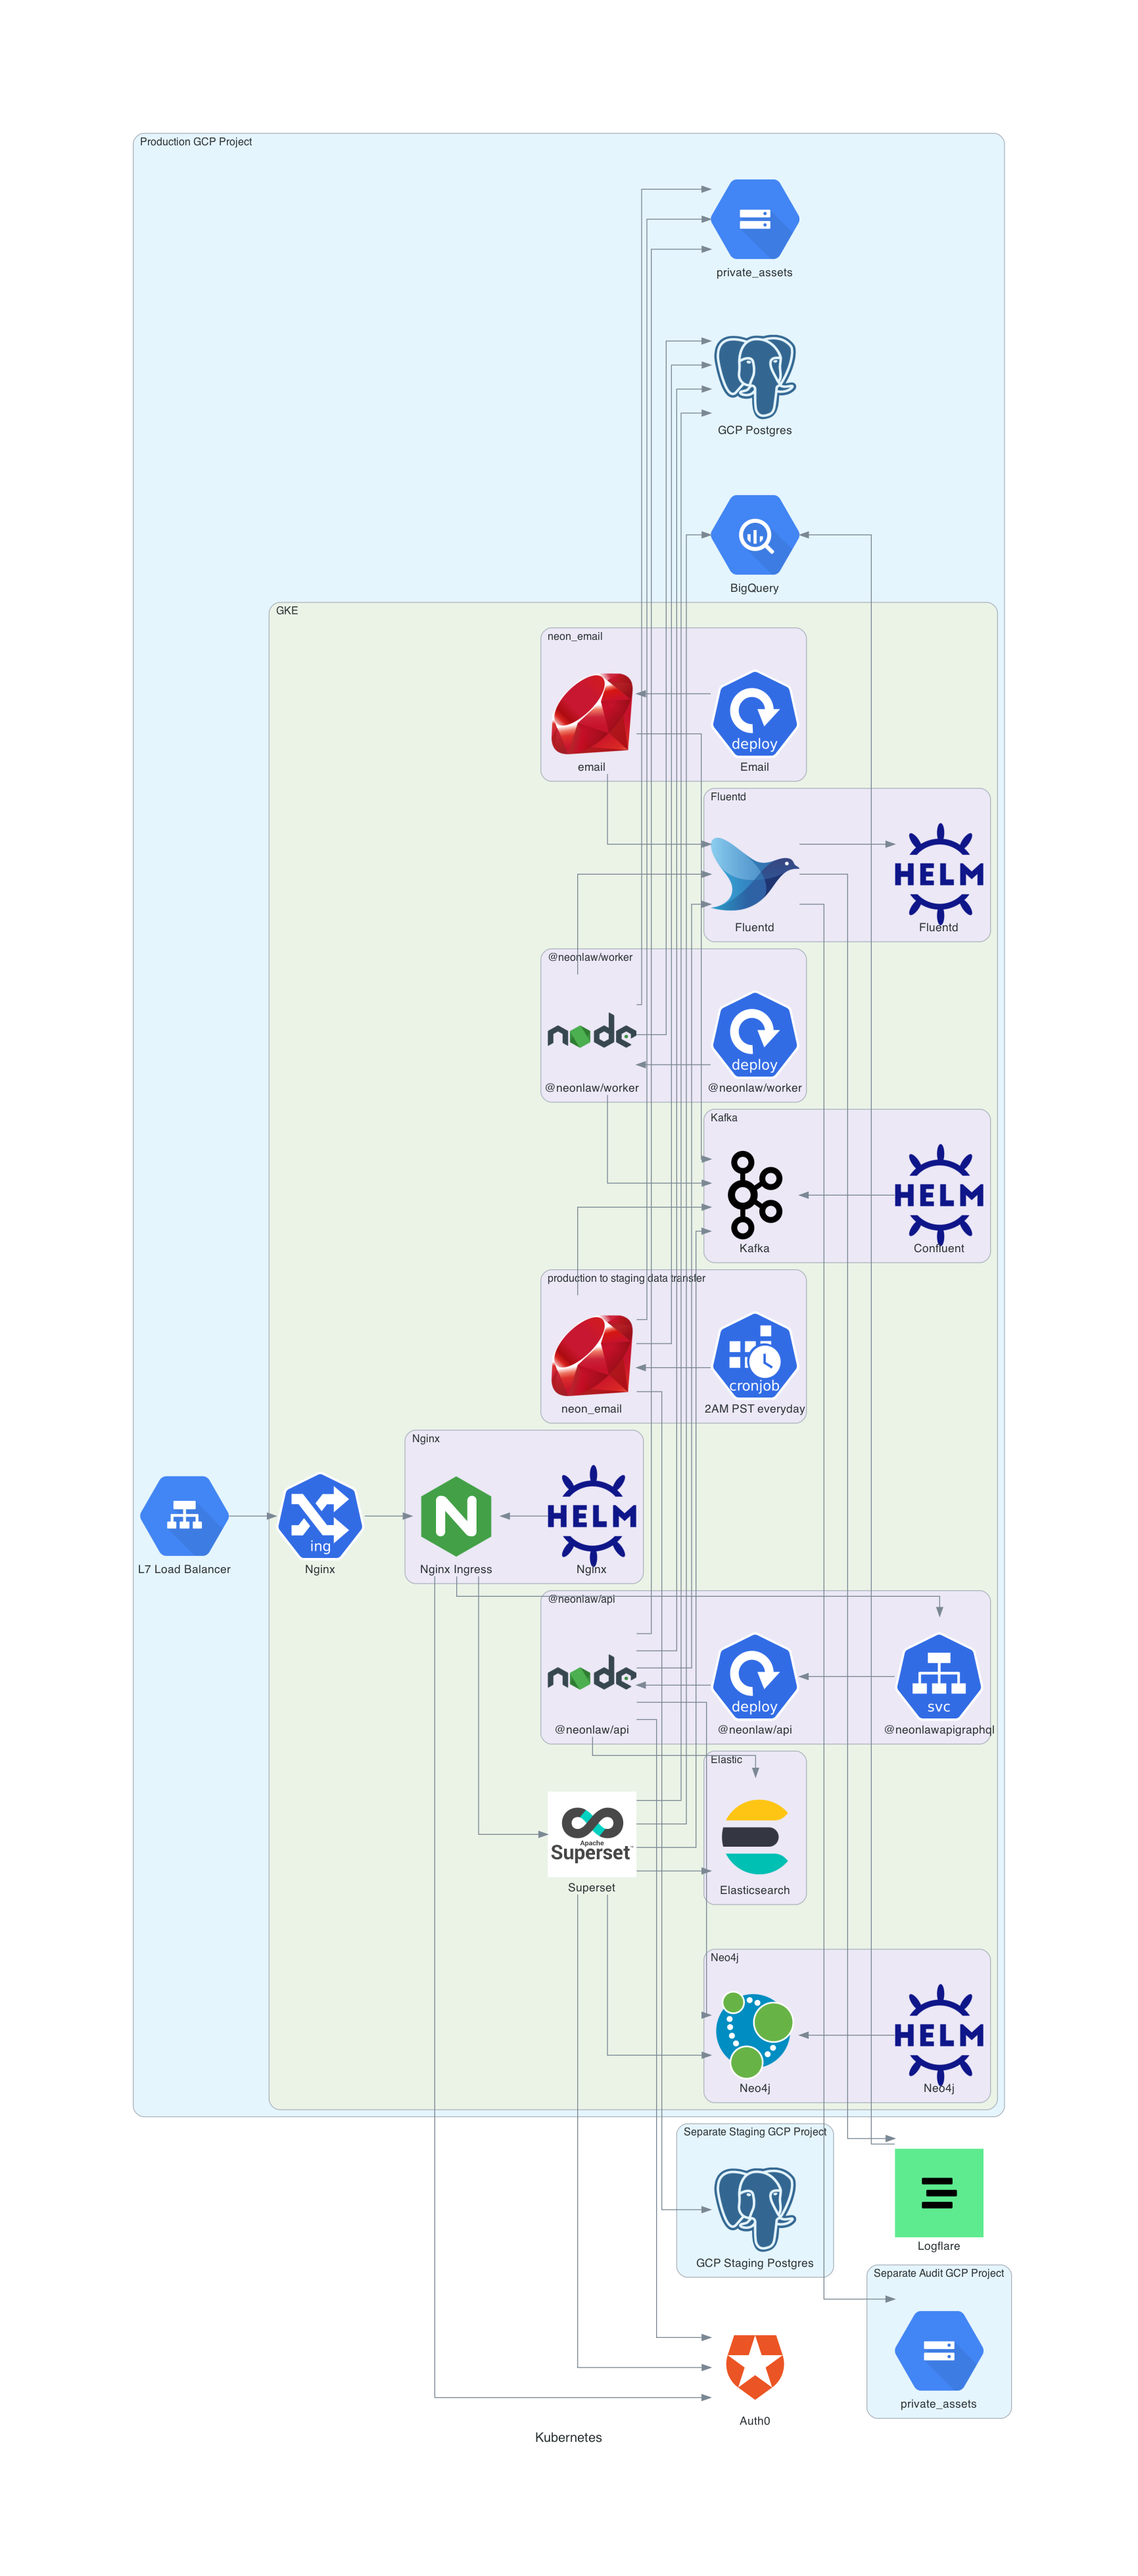
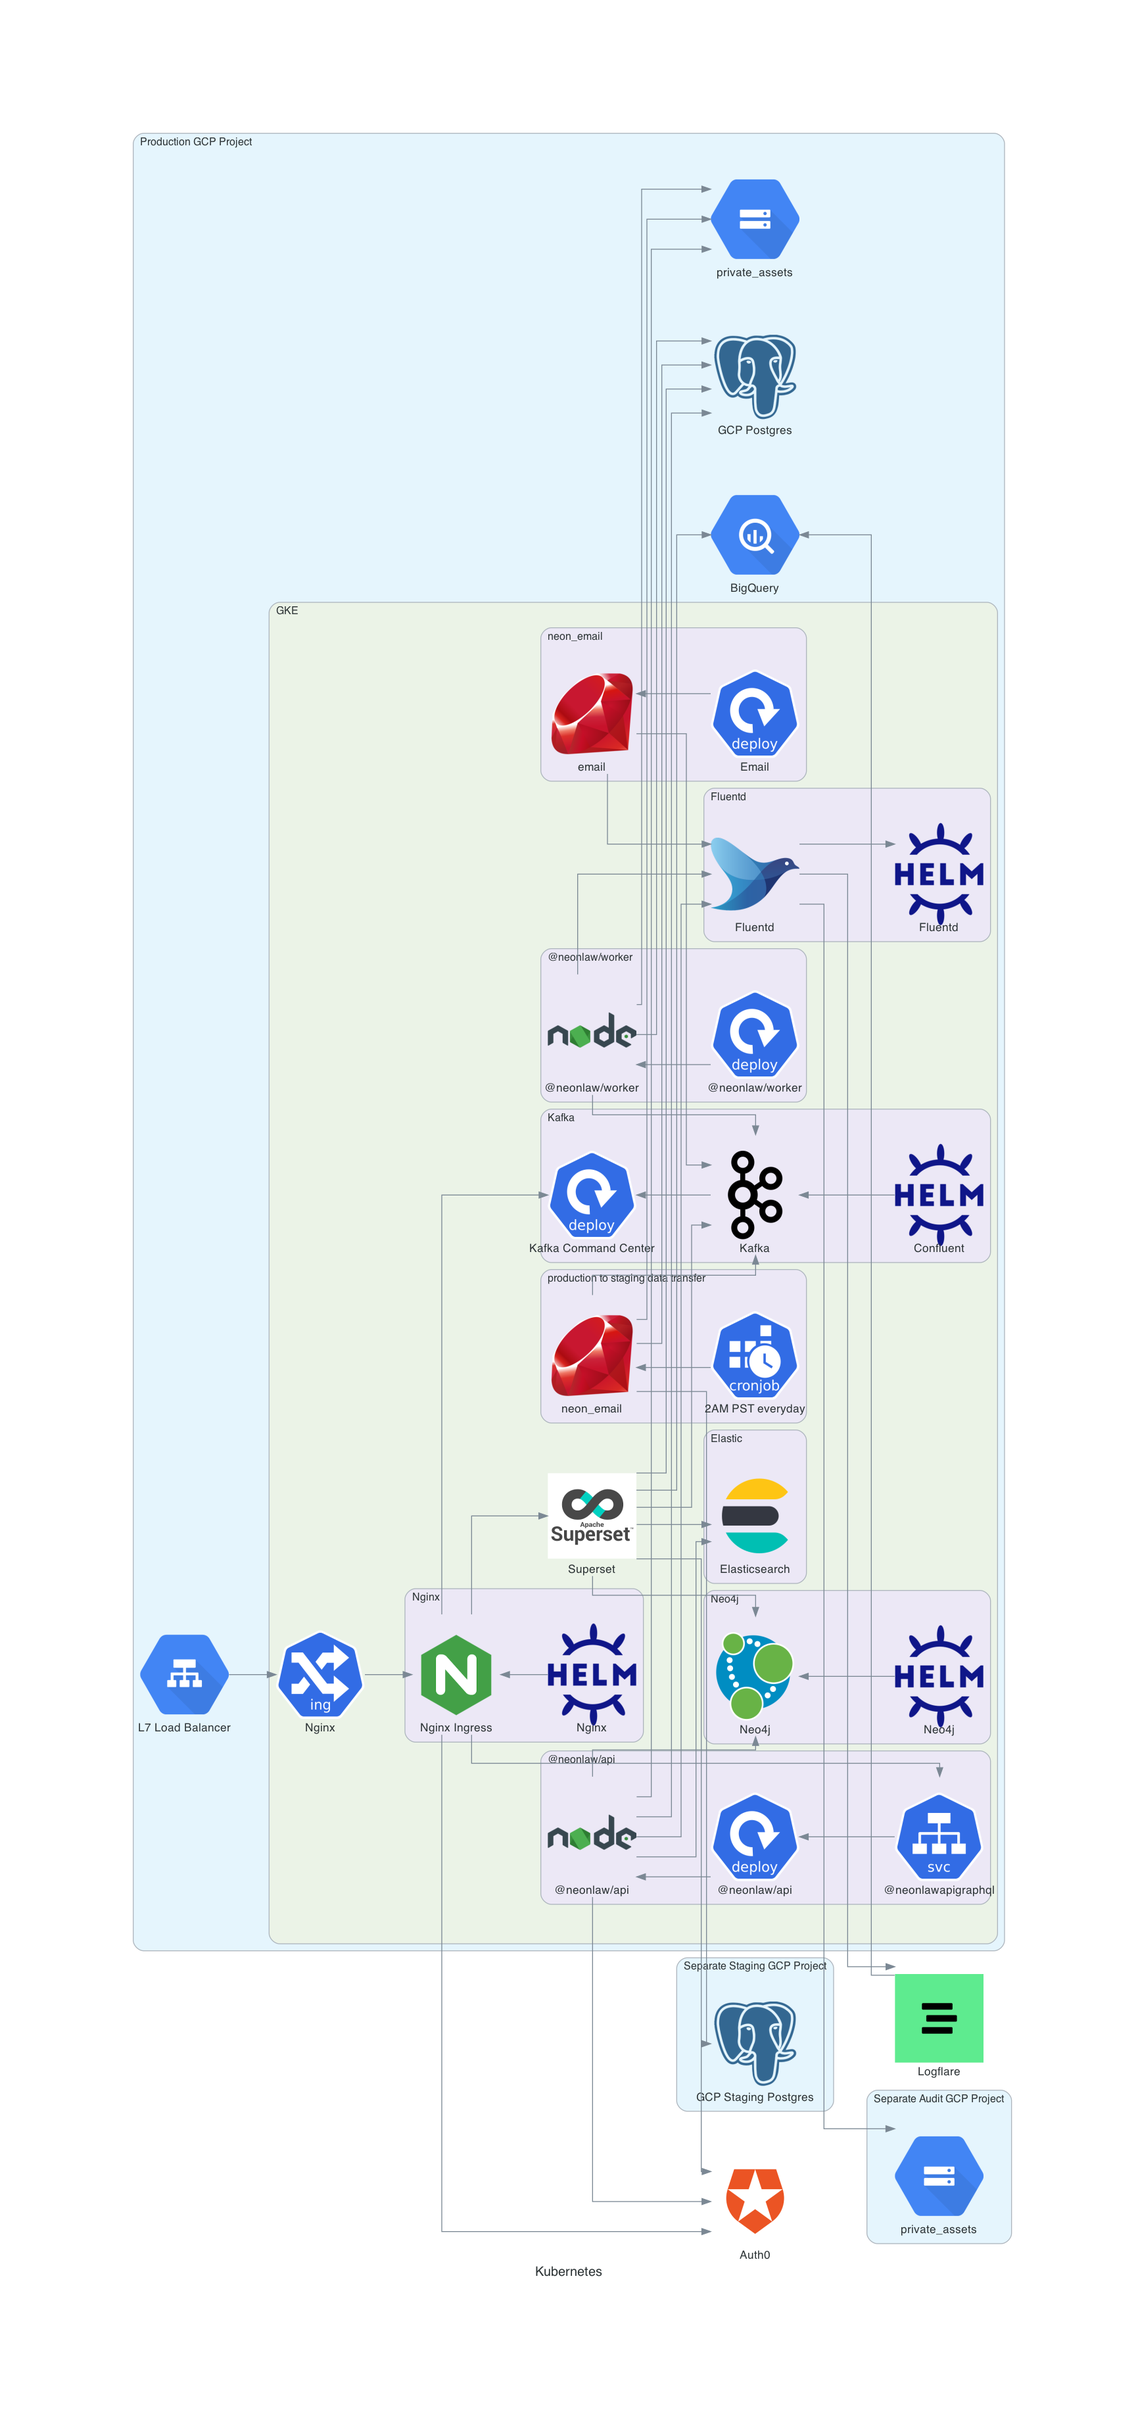
add ingress to align with diagram

diff --git a/web/src/pages/blog/index.tsx b/web/src/pages/blog/index.tsx
@@ -28,34 +28,6 @@ const BlogIndex = () => {
             <List spacing="0.5rem" maxWidth={sizes.textContainerMedium}>
               <ListItem className="list-item">
                 <PostBanner
-                  title="Web Architecture"
-                  date={new Date()}
-                  slug="/blog/web-architecture"
-                  excerpt="The web architecture of Neon Law"
-                >
-                  <img
-                    src="/images/web_diagram.png"
-                    alt="Web Architecture Blog Post"
-                  />
-                </PostBanner>
-              </ListItem>
-
-              <ListItem className="list-item">
-                <PostBanner
-                  title="GCP Architecture"
-                  date={new Date()}
-                  slug="/blog/gcp-architecture"
-                  excerpt="The GCP architecture of Neon Law"
-                >
-                  <img
-                    src="/images/gcp_diagram.png"
-                    alt="GCP Architecture Blog Post"
-                  />
-                </PostBanner>
-              </ListItem>
-
-              <ListItem className="list-item">
-                <PostBanner
                   title="Kubernetes Architecture"
                   date={new Date()}
                   slug="/blog/k8s-architecture"
@@ -64,20 +36,6 @@ const BlogIndex = () => {
                   <img
                     src="/images/k8s_diagram.png"
                     alt="Kubernetes Architecture Blog Post"
-                  />
-                </PostBanner>
-              </ListItem>
-
-              <ListItem className="list-item">
-                <PostBanner
-                  title="Kafka Architecture"
-                  date={new Date()}
-                  slug="/blog/kafka-architecture"
-                  excerpt="The kafka architecture of Neon Law"
-                >
-                  <img
-                    src="/images/kafka_diagram.png"
-                    alt="Kafka Architecture Blog Post"
                   />
                 </PostBanner>
               </ListItem>

diff --git a/diagrams/neon_diagrams/k8s_diagram.py b/diagrams/neon_diagrams/k8s_diagram.py
@@ -38,7 +38,8 @@ with Diagram("Kubernetes", filename=f"{web_images_path}/k8s_diagram"):
         with Cluster("GKE"):
             with Cluster("Kafka"):
                 kafka = Kafka("Kafka")
-                kafka << Helm("Confluent")
+                kafka_command_center = Deployment("CCC")
+                kafka_command_center << kafka << Helm("Confluent")
 
             with Cluster("Neo4j"):
                 neo4j = Neo4J("Neo4j")
@@ -91,7 +92,7 @@ with Diagram("Kubernetes", filename=f"{web_images_path}/k8s_diagram"):
             [api_package] >> neo4j
             [api_package] >> search
             superset >> [postgres, kafka, neo4j, search, big_query]
-            nginx >> [api, superset]
+            nginx >> [api, superset, kafka_command_center]
 
             load_balancer >> ingress
 
